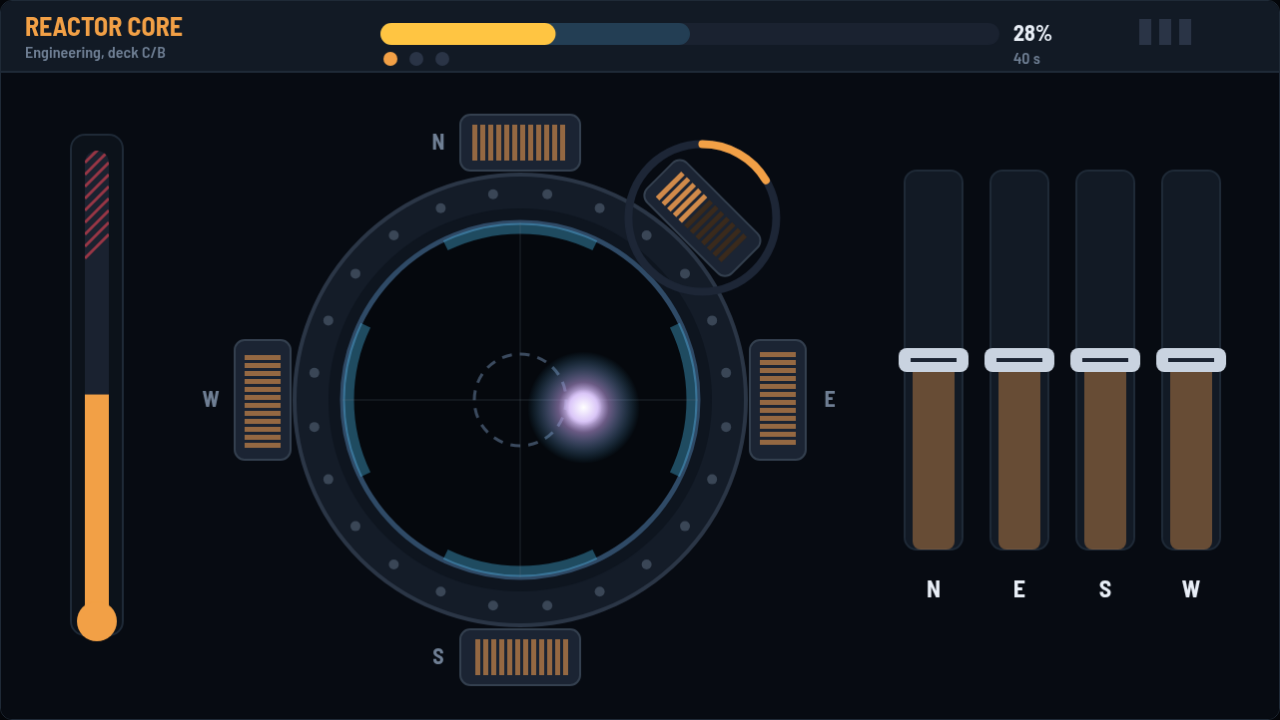
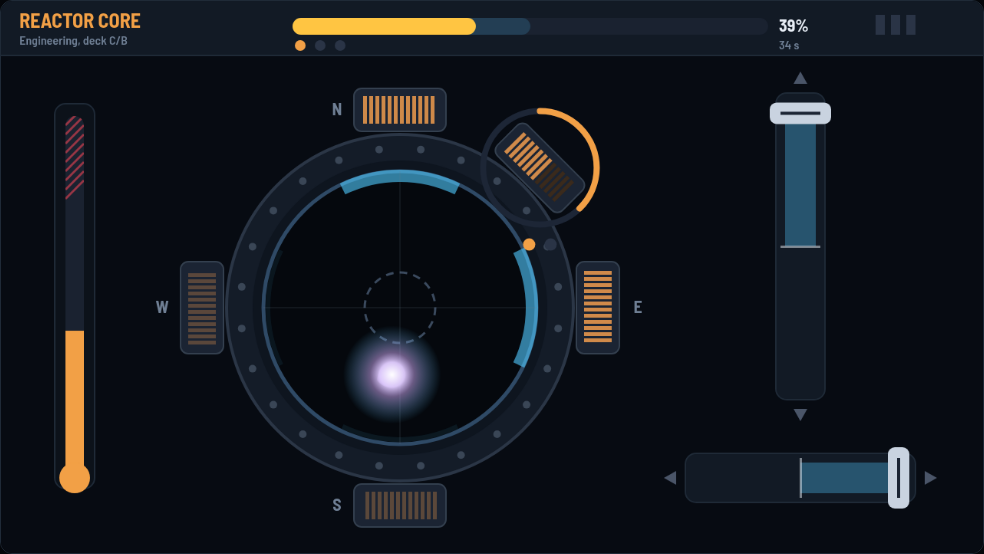
Repairs: the reactor on two sliders, with a second stage for the plasma ring
The owner: "warp core stabilizer should just be a vertical and horizontal dial
for simplicity", "there should be a stage 2 to stabilize plasma ring too"
(repair-minigames design 6b).

A vertical and a horizontal slider replace the four coil sliders. Each round
is two stages on them: hold the core centred, then hold the plasma ring round
(width and height) in its band; the ring touching the wall or collapsing on
the core is the heat spike. Played headless: a steady hand finishes three
rounds with no fumble, a ring pushed free fumbles.

Claude-Session: https://claude.ai/code/session_01XPxx9YMuxAXorVnQzDeXcp

diff --git a/docs/mockups/repairs/reactor.js b/docs/mockups/repairs/reactor.js
@@ -3,8 +3,12 @@
  *
  * The containment vessel from the front: the plasma ball floats inside the ring, held by four magnet coils (N, E, S,
  * W), while a fifth coil in the upper right slot is swapped out. The core's load pushes the plasma off centre and the
- * push wanders. Trim the coils to hold it in the centre band: the stick (arrows or W A S D) raises the coil on that
- * side and lowers the opposite one, or drag the four coil sliders. A raised coil pulls the plasma towards it. A step is
+ * push wanders. Hold it in the centre band with two controls (owner, 2026-10-08: "should just be a vertical and
+ * horizontal dial for simplicity"): the horizontal slider pulls the field left or right, the vertical one up or down,
+ * the way its handle is pushed (drag them, or the arrows or W A S D). The coils glow with the pull. A step has two
+ * stages (owner: "there should be a stage 2 to stabilize plasma ring too"): first the core, then the plasma ring round
+ * it, which the load pulls out of round; the same two controls set the ring's width and height, held round in its
+ * band. The ring bulging into the wall or collapsing onto the core is the same heat spike. Stage 1 is
  * the swap's ring filling, which it does only while the plasma sits in the band; the next step's load is heavier and
  * wanders faster. The plasma touching the wall is a fumble: a heat spike. A disabled core's first step fits the new
  * coil: drag it from the crate into the open slot, with the core cold.
@@ -24,8 +28,8 @@ RepairKit.register({
     const BALL = 24;                        // the plasma's radius, px
     const BAND = 46;                        // the centre band the swap needs, px
     const COIL_R = 258;                     // where the coil housings sit, px from the centre
-    const PULL = 125;                       // px/s of push for a full trim difference across a pair
-    const TRIM_RATE = 0.75;                 // trim a second from the stick
+    const PULL = 125;                       // px/s of push at a control's end stop
+    const TRIM_RATE = 1.5;                  // a control's travel a second from the stick (end to end in 1.3 s)
     const LAG = 0.35;                       // s: the plasma's lag behind the field
     const SLOT = -Math.PI / 4;              // the swapped coil's slot: upper right
     const SLOT_X = CX + Math.cos(SLOT) * COIL_R, SLOT_Y = CY + Math.sin(SLOT) * COIL_R;
@@ -35,16 +39,24 @@ RepairKit.register({
       { name: "S", a: Math.PI / 2, dx: 0, dy: 1 },
       { name: "W", a: Math.PI, dx: -1, dy: 0 },
     ];
-    const SL = { x: 905, y: 170, w: 58, h: 380, gap: 86 };   // the four coil sliders
-    let part, coil, trim, p, v, drift, hold, holdNeed, done, heat, cool, grab, trail, time;
+    // The two controls: a vertical slider and a horizontal one, each centred at rest (-1 to 1).
+    const VS = { x: 1010, y: 120, w: 64, h: 400 };
+    const HS = { x: 892, y: 590, w: 300, h: 64 };
+    let part, coil, ax, p, v, drift, hold, holdNeed, done, heat, cool, grab, trail, time;
+    // Stage 2, the plasma ring: its shape error (0 round), smoothed, and its own hold.
+    const RING = 112;                       // the ring's round radius, px
+    const RING_BAND = 0.22;                 // how far out of round still counts as held
+    const RING_GAIN = 0.4;                  // the radius change per unit of shape error (a control at its stop plus the load can breach)
+    let stage, ring, ringLoad, ringHold, ringNeed;
+    const ringErr = (tt) => [ringLoad.m * Math.sin(ringLoad.w1 * tt + ringLoad.p1) + ax.x, ringLoad.m * Math.cos(ringLoad.w2 * tt + ringLoad.p2) + ax.y];
 
     const sliderAt = (x, y) => {
-      for (let i = 0; i < 4; i++) {
-        const sx = SL.x + i * SL.gap;
-        if (x >= sx - 14 && x <= sx + SL.w + 14 && y >= SL.y - 20 && y <= SL.y + SL.h + 20) return i;
-      }
-      return -1;
+      if (x >= VS.x - 16 && x <= VS.x + VS.w + 16 && y >= VS.y - 20 && y <= VS.y + VS.h + 20) return "v";
+      if (x >= HS.x - 20 && x <= HS.x + HS.w + 20 && y >= HS.y - 16 && y <= HS.y + HS.h + 16) return "h";
+      return null;
     };
+    /** Each coil's pull from the two controls (N, E, S, W): it glows with it. */
+    const coilPull = () => [(1 - ax.y) / 2, (1 + ax.x) / 2, (1 + ax.y) / 2, (1 - ax.x) / 2];
     const load = (t) => {
       const m = drift.m * (1 + 0.35 * Math.sin(1.3 * t + drift.p1));
       const a = drift.a0 + drift.w * t + 0.6 * Math.sin(0.7 * t + drift.p2);
@@ -56,14 +68,16 @@ RepairKit.register({
         const r = api.rand();
         part = isPart;
         coil = { x: 1080, y: 420, held: false, set: false };
-        trim = [0.5, 0.5, 0.5, 0.5];
+        ax = { x: 0, y: 0 };
         p = { x: 0, y: 0 }; v = { x: 0, y: 0 };
         drift = { a0: r() * Math.PI * 2, w: (0.3 + 0.1 * index) * (r() < 0.5 ? -1 : 1), m: 38 + 14 * index, p1: r() * 6.3, p2: r() * 6.3 };
-        hold = 0; holdNeed = 8 + 1.5 * index; done = false;
-        heat = 0; cool = 0; grab = -1; trail = []; time = 0;
+        hold = 0; holdNeed = 5 + index; done = false;
+        stage = 1; ring = { x: 0, y: 0 }; ringHold = 0; ringNeed = 4 + index;
+        ringLoad = { m: 0.55 + 0.15 * index, w1: 0.45 + 0.1 * index, w2: 0.37 + 0.09 * index, p1: r() * 6.3, p2: r() * 6.3 };
+        heat = 0; cool = 0; grab = null; trail = []; time = 0;
       },
       /** For tools (shots and tests): the round's state, read only. */
-      peek() { return { part, p: { ...p }, trim: [...trim], hold: hold / holdNeed, done, coilSet: coil.set }; },
+      peek() { return { part, stage, p: { ...p }, ax: { ...ax }, ring: { ...ring }, hold: hold / holdNeed, ringHold: ringHold / ringNeed, done, coilSet: coil.set }; },
       update(dt, input) {
         heat = Math.max(0, heat - dt * 0.6);
         cool = Math.max(0, cool - dt);
@@ -79,22 +93,22 @@ RepairKit.register({
         }
         if (part) return;
         time += dt;
-        // Trims: the stick raises the coil on its side and lowers the opposite one; the sliders set one directly.
-        const sx = input.stick.x, sy = input.stick.y;
-        const clamp = (x) => Math.max(0, Math.min(1, x));
-        if (sx) { trim[1] = clamp(trim[1] + sx * TRIM_RATE * dt); trim[3] = clamp(trim[3] - sx * TRIM_RATE * dt); }
-        if (sy) { trim[2] = clamp(trim[2] + sy * TRIM_RATE * dt); trim[0] = clamp(trim[0] - sy * TRIM_RATE * dt); }
+        // The two controls: the stick moves them, a drag sets the one it holds.
+        const clamp = (x) => Math.max(-1, Math.min(1, x));
+        if (input.stick.x) ax.x = clamp(ax.x + input.stick.x * TRIM_RATE * dt);
+        if (input.stick.y) ax.y = clamp(ax.y + input.stick.y * TRIM_RATE * dt);
         if (input.pressed) grab = sliderAt(input.x, input.y);
-        if (grab >= 0 && input.down) trim[grab] = clamp(1 - (input.y - SL.y) / SL.h);
-        if (input.released || !input.down) grab = -1;
+        if (grab === "v" && input.down) ax.y = clamp((input.y - (VS.y + VS.h / 2)) / (VS.h / 2));
+        if (grab === "h" && input.down) ax.x = clamp((input.x - (HS.x + HS.w / 2)) / (HS.w / 2));
+        if (input.released || !input.down) grab = null;
         if (done) {
           // Swapped: the field settles the plasma home.
           p.x *= 1 - Math.min(1, dt * 2); p.y *= 1 - Math.min(1, dt * 2);
           return;
         }
-        // The plasma follows the field (the load plus the coils) with a short lag.
-        const [lx, ly] = load(time);
-        const fx = lx + (trim[1] - trim[3]) * PULL, fy = ly + (trim[2] - trim[0]) * PULL;
+        // The plasma follows the field (the load plus the coils) with a short lag; in stage 2 the core is held.
+        const [lx, ly] = stage === 1 ? load(time) : [-ax.x * PULL - p.x * 3, -ax.y * PULL - p.y * 3];
+        const fx = lx + ax.x * PULL, fy = ly + ax.y * PULL;
         v.x += (fx - v.x) * Math.min(1, dt / LAG); v.y += (fy - v.y) * Math.min(1, dt / LAG);
         p.x += v.x * dt; p.y += v.y * dt;
         trail.push([p.x, p.y]); if (trail.length > 14) trail.shift();
@@ -106,9 +120,24 @@ RepairKit.register({
           return;
         }
         if (off + BALL > WALL) { const k = (WALL - BALL) / off; p.x *= k; p.y *= k; }
-        if (off <= BAND) {
+        if (stage === 1 && off <= BAND) {
           hold += dt;
-          if (hold >= holdNeed) { hold = holdNeed; done = true; api.stepDone(); }
+          // The core is held: on to the ring, the controls back to centre.
+          if (hold >= holdNeed) { hold = holdNeed; stage = 2; ax = { x: 0, y: 0 }; time = 0; }
+        }
+        if (stage === 2) {
+          const [ex, ey] = ringErr(time);
+          ring.x += (ex - ring.x) * Math.min(1, dt / LAG); ring.y += (ey - ring.y) * Math.min(1, dt / LAG);
+          const rx = RING * (1 + RING_GAIN * ring.x), ry = RING * (1 + RING_GAIN * ring.y);
+          if ((Math.max(rx, ry) >= WALL - 6 || Math.min(rx, ry) <= BALL * 2) && cool <= 0) {
+            heat = 1; cool = 1; ring.x *= 0.4; ring.y *= 0.4;
+            api.fumble(Math.max(rx, ry) >= WALL - 6 ? "Plasma ring touched the wall: heat spike" : "Plasma ring collapsed on the core: heat spike");
+            return;
+          }
+          if (Math.abs(ring.x) < RING_BAND && Math.abs(ring.y) < RING_BAND) {
+            ringHold += dt;
+            if (ringHold >= ringNeed) { ringHold = ringNeed; done = true; api.stepDone(); }
+          }
         }
       },
       draw(g, t) {
@@ -142,11 +171,12 @@ RepairKit.register({
         D.ring(g, CX, CY, WALL, wallHot, 5);
 
         // The coils: housings outside the vessel, windings glowing with their trim, the field on the inner wall.
+        const pull = coilPull();
         COILS.forEach((c, i) => {
           const hx = CX + Math.cos(c.a) * COIL_R, hy = CY + Math.sin(c.a) * COIL_R;
-          const k = live ? trim[i] : 0;
+          const k = live ? pull[i] : 0;
           g.save(); g.translate(hx, hy); g.rotate(c.a + Math.PI / 2);
-          D.panel(g, -60, -28, 120, 56, 10, "#1b2433", grab === i ? C.amber : "#34404f");
+          D.panel(g, -60, -28, 120, 56, 10, "#1b2433", "#34404f");
           for (let s = -48; s <= 44; s += 8) {
             g.fillStyle = `rgba(208,138,74,${0.35 + 0.65 * k})`; g.fillRect(s, -18, 5, 36);
           }
@@ -162,7 +192,7 @@ RepairKit.register({
         g.save(); g.translate(SLOT_X, SLOT_Y); g.rotate(SLOT + Math.PI / 2);
         D.panel(g, -60, -28, 120, 56, 10, part && !coil.set ? "#120d08" : "#1b2433", part && !coil.set ? C.amber : "#34404f");
         if (!part || coil.set) {
-          const fill = part ? 1 : 0.25 + 0.75 * (hold / holdNeed);
+          const fill = part ? 1 : 0.25 + 0.75 * ((hold / holdNeed + ringHold / ringNeed) / 2);
           for (let s = -48; s <= 44; s += 8) {
             g.fillStyle = (s + 48) / 96 <= fill ? C.copper : "#3a2a1c"; g.fillRect(s, -18, 5, 36);
           }
@@ -170,7 +200,8 @@ RepairKit.register({
         g.restore();
         if (!part) {
           D.ring(g, SLOT_X, SLOT_Y, 74, "#1d2636", 8);
-          g.beginPath(); g.arc(SLOT_X, SLOT_Y, 74, -Math.PI / 2, -Math.PI / 2 + Math.PI * 2 * (hold / holdNeed));
+          // Two halves: the core's hold, then the ring's.
+          g.beginPath(); g.arc(SLOT_X, SLOT_Y, 74, -Math.PI / 2, -Math.PI / 2 + Math.PI * ((hold / holdNeed) + (ringHold / ringNeed)));
           g.strokeStyle = done ? C.ok : C.amber; g.lineWidth = 8; g.lineCap = "round"; g.stroke(); g.lineCap = "butt";
         }
 
@@ -182,6 +213,22 @@ RepairKit.register({
         g.beginPath(); g.moveTo(CX - WALL, CY); g.lineTo(CX + WALL, CY); g.moveTo(CX, CY - WALL); g.lineTo(CX, CY + WALL); g.stroke();
         if (live) {
           trail.forEach(([x, y], i) => D.disc(g, CX + x, CY + y, BALL * (i / trail.length) * 0.8, `rgba(190,159,230,${0.05 + 0.12 * (i / trail.length)})`));
+          // Stage 2: the plasma ring, its target band dashed round it (green while held), a pip for each stage.
+          if (stage === 2) {
+            const held = Math.abs(ring.x) < RING_BAND && Math.abs(ring.y) < RING_BAND;
+            g.setLineDash([8, 7]);
+            for (const k of [1 - RING_GAIN * RING_BAND, 1 + RING_GAIN * RING_BAND]) D.ring(g, CX, CY, RING * k, held ? C.ok : "#3b4a5e", 2);
+            g.setLineDash([]);
+            const rx = RING * (1 + RING_GAIN * ring.x), ry = RING * (1 + RING_GAIN * ring.y);
+            const wob = 1 + 0.02 * Math.sin(t * 17);
+            for (const [w, col] of [[22, "rgba(190,159,230,0.18)"], [12, "rgba(190,159,230,0.55)"], [4, "rgba(240,230,255,0.95)"]]) {
+              g.beginPath(); g.ellipse(CX, CY, rx * wob, ry * wob, 0, 0, Math.PI * 2); g.strokeStyle = heat > 0 ? `rgba(255,120,120,${0.4 + 0.5 * heat})` : col; g.lineWidth = w; g.stroke();
+            }
+          }
+          for (let k = 0; k < 2; k++) {
+            const on = stage > k + 1 || done, cur = stage === k + 1 && !done;
+            D.disc(g, SLOT_X - 14 + k * 28, SLOT_Y + 100, 8, on ? C.ok : cur ? C.amber : "#2a3446");
+          }
           const bx = CX + p.x, by = CY + p.y;
           const flick = 1 + 0.06 * Math.sin(t * 23) + 0.04 * Math.sin(t * 37);
           const glow = g.createRadialGradient(bx, by, 0, bx, by, BALL * 2.6 * flick);
@@ -192,19 +239,34 @@ RepairKit.register({
           D.disc(g, bx, by, BALL * 2.6 * flick, glow);
         }
 
-        // The coil sliders: a track each, the trim as a fill and a handle.
+        // The two controls: a vertical and a horizontal slider, a centre mark, the pull as a fill from the centre to
+        // the handle, arrows at the ends for the way the field pulls.
         if (live) {
-          for (let i = 0; i < 4; i++) {
-            const sx = SL.x + i * SL.gap;
-            D.round(g, sx, SL.y, SL.w, SL.h, 12); g.fillStyle = "#121a25"; g.fill();
-            g.lineWidth = 2; g.strokeStyle = grab === i ? C.amber : C.line; g.stroke();
-            const hy = SL.y + SL.h * (1 - trim[i]);
-            D.round(g, sx + 8, hy, SL.w - 16, SL.y + SL.h - hy, 8); g.fillStyle = "rgba(208,138,74,0.45)"; g.fill();
-            g.fillStyle = "rgba(111,127,148,0.4)"; g.fillRect(sx + 4, SL.y + SL.h / 2 - 1, SL.w - 8, 2);
-            D.round(g, sx - 6, hy - 12, SL.w + 12, 24, 8); g.fillStyle = grab === i ? C.amber : "#c9d3e0"; g.fill();
-            g.fillStyle = "#1b2433"; g.fillRect(sx + 6, hy - 2, SL.w - 12, 4);
-            D.text(g, COILS[i].name, sx + SL.w / 2, SL.y + SL.h + 40, 24, C.fg, "center", 700);
-          }
+          const slider = (S, vertical, val, on) => {
+            D.round(g, S.x, S.y, S.w, S.h, 14); g.fillStyle = "#121a25"; g.fill();
+            g.lineWidth = 2; g.strokeStyle = on ? C.amber : C.line; g.stroke();
+            const len = vertical ? S.h : S.w, mid = len / 2, pos = mid + val * (mid - 22);
+            g.fillStyle = "rgba(79,195,247,0.35)";
+            if (vertical) g.fillRect(S.x + 12, S.y + Math.min(mid, pos), S.w - 24, Math.abs(pos - mid));
+            else g.fillRect(S.x + Math.min(mid, pos), S.y + 12, Math.abs(pos - mid), S.h - 24);
+            g.fillStyle = "rgba(232,238,246,0.5)";
+            if (vertical) g.fillRect(S.x + 6, S.y + mid - 1, S.w - 12, 3); else g.fillRect(S.x + mid - 1, S.y + 6, 3, S.h - 12);
+            // Arrows at both ends: the way the plasma is pulled with the handle there.
+            const arrow = (x, y, a) => {
+              g.save(); g.translate(x, y); g.rotate(a); g.beginPath(); g.moveTo(10, 0); g.lineTo(-6, -9); g.lineTo(-6, 9); g.closePath();
+              g.fillStyle = "#4a5568"; g.fill(); g.restore();
+            };
+            if (vertical) { arrow(S.x + S.w / 2, S.y - 18, -Math.PI / 2); arrow(S.x + S.w / 2, S.y + S.h + 18, Math.PI / 2); }
+            else { arrow(S.x - 18, S.y + S.h / 2, Math.PI); arrow(S.x + S.w + 18, S.y + S.h / 2, 0); }
+            // The handle.
+            if (vertical) { D.round(g, S.x - 8, S.y + pos - 14, S.w + 16, 28, 9); }
+            else { D.round(g, S.x + pos - 14, S.y - 8, 28, S.h + 16, 9); }
+            g.fillStyle = on ? C.amber : "#c9d3e0"; g.fill();
+            g.fillStyle = "#1b2433";
+            if (vertical) g.fillRect(S.x + 6, S.y + pos - 2, S.w - 12, 4); else g.fillRect(S.x + pos - 2, S.y + 6, 4, S.h - 12);
+          };
+          slider(VS, true, ax.y, grab === "v");
+          slider(HS, false, ax.x, grab === "h");
         }
 
         // The part: the new coil in its crate, or in the hand.

diff --git a/openspec/changes/repair-minigames/design.md b/openspec/changes/repair-minigames/design.md
@@ -153,6 +153,13 @@ tell me whats wrong until I click on the wrong screw"; "wheres my toilet minigam
   order, from the first fastener round the star (`KIT.starOrder`); every fastener carries its number and the next one
   is lit and ringed at rest (`KIT.draw.orderBadge`). A fastener out of order is still refused (the pylon's bolt is
   still lost), but it is never a guess.
+- **The reactor core in two controls and two stages** (owner: "warp core stabilizer should just be a vertical and
+  horizontal dial for simplicity", "there should be a stage 2 to stabilize plasma ring too"). One vertical and one
+  horizontal slider replace the four coil sliders: each pulls the field the way its handle is pushed, and the coils
+  glow with it. Each round is two stages on the same controls: hold the core in its centre band, then the plasma ring
+  round it, which the load pulls out of round (the horizontal slider sets its width, the vertical its height), held
+  round in its band. The ring bulging into the wall or collapsing onto the core is the same heat spike as the core
+  touching the wall.
 - **Toilets and showers** and **the medic**: section 6c.
 
 ## 7. The Pi 5 budget
